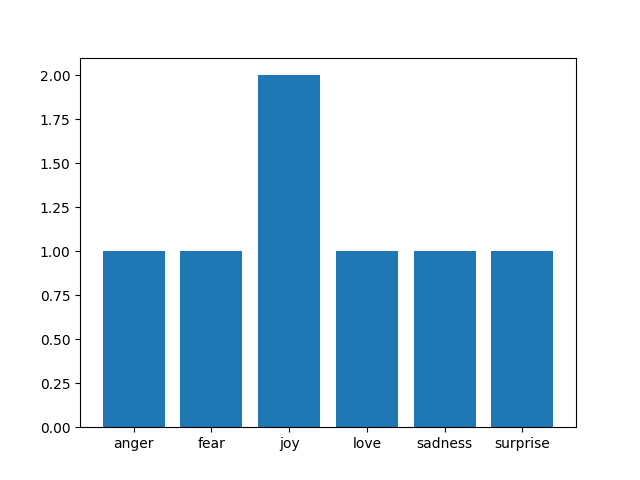
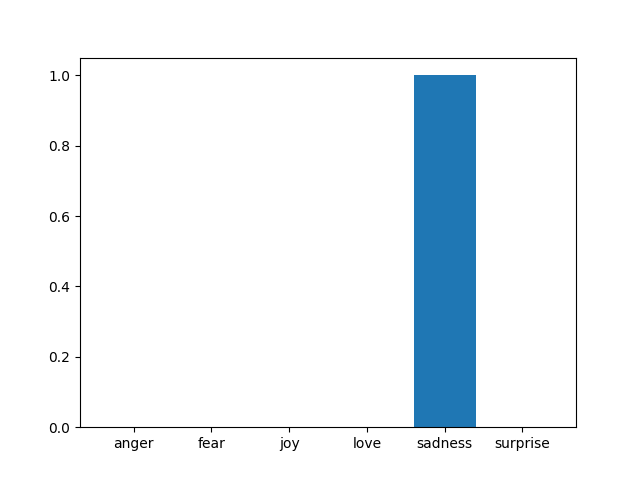
fix therapy

diff --git a/static/script.js b/static/script.js
@@ -316,7 +316,7 @@ const viewStats = async (event) => {
         // Replace with the appropriate HTML structure to display the statistics
         // Display the fetched image in the modal
         const imgElement = document.createElement('img');
-        imgElement.src = sessionStats.image_url;
+        imgElement.src = 'static/plt.png';
         imgElement.alt = 'Session Statistics Image';
         imgElement.classList.add('img-fluid');
         modalBody.appendChild(imgElement);

diff --git a/backend/therapy.py b/backend/therapy.py
@@ -38,7 +38,7 @@ def emotion_from_text(text):
     '''
     Determines the emotion from the text
     '''
-    this_message = [{"role": "system", "content": 'Determine the emotion of the following text: '}, {"role": "user", "content": text}]
+    this_message = [{"role": "system", "content": 'Determine the emotion of the following text. Your options are (anger, fear, joy, love, sadness, surprise): '}, {"role": "user", "content": text}]
     completion = client.chat.completions.create(
         model=model,
         messages=this_message
